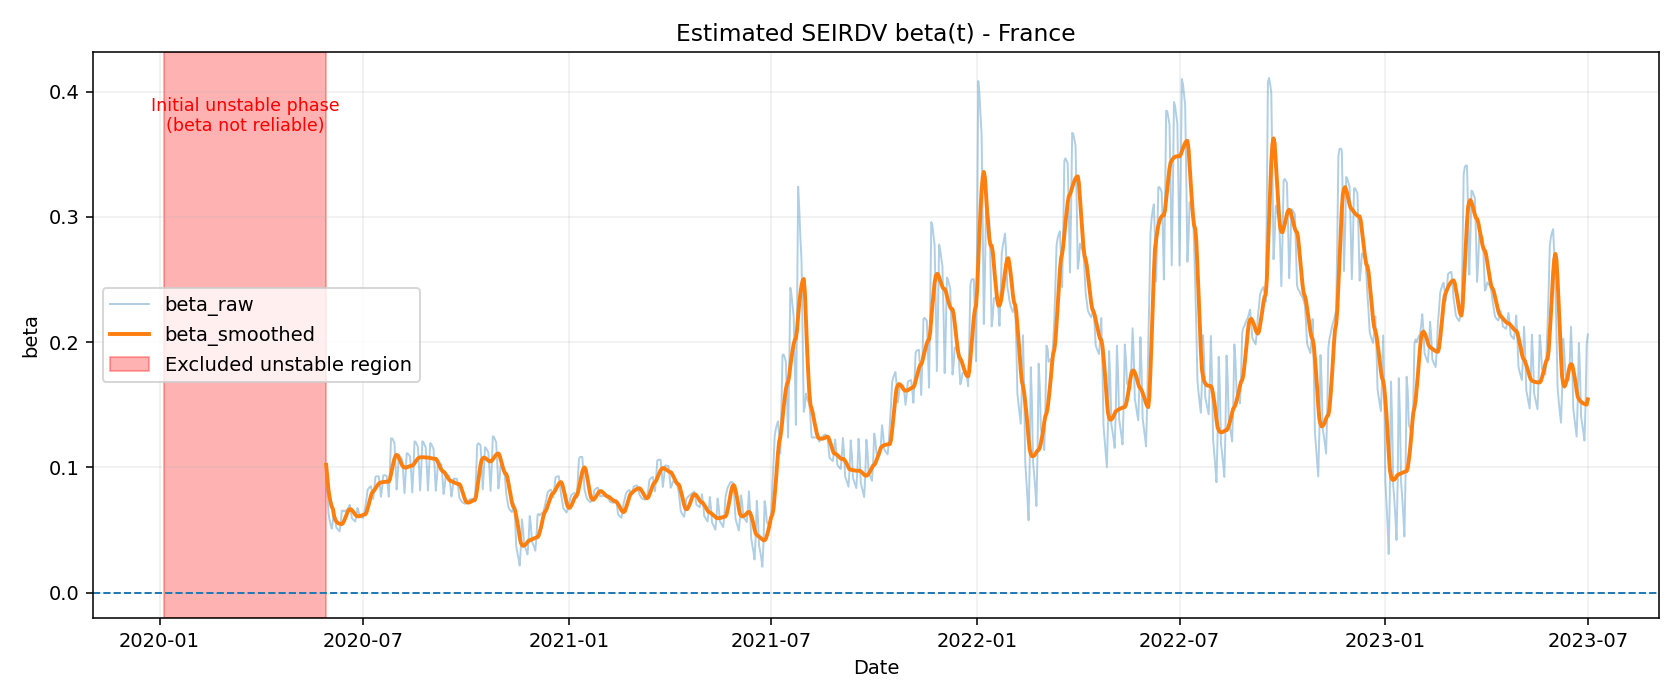
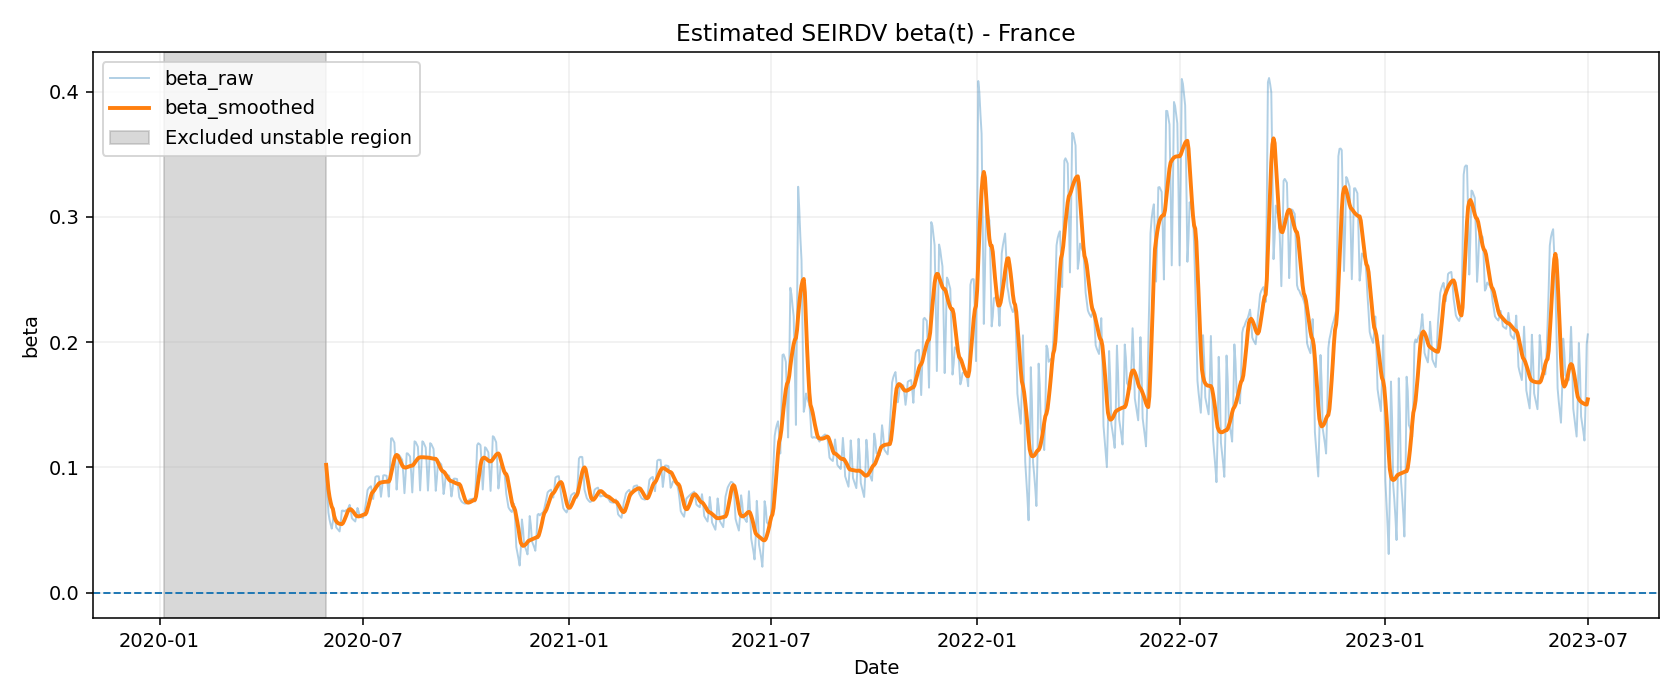
Update SEIRDV beta/mu excluded-region styling

Changed region(s): [[0.0619, 0.06, 0.2476, 0.9]]

diff --git a/src/visualization/plot_seirdv_parameters.py b/src/visualization/plot_seirdv_parameters.py
@@ -177,20 +177,8 @@ def plot_seirdv_beta(df: pd.DataFrame, output_path: Path, country: str) -> Path:
                 df.index.min(),
                 valid_start,
                 alpha=0.3,
-                color="red",
+                color="gray",
                 label="Excluded unstable region",
-            )
-            y_min, y_max = axis.get_ylim()
-            y_text = y_max - 0.08 * (y_max - y_min)
-            midpoint = df.index.min() + (valid_start - df.index.min()) / 2
-            axis.text(
-                midpoint,
-                y_text,
-                "Initial unstable phase\n(beta not reliable)",
-                color="red",
-                ha="center",
-                va="top",
-                fontsize=9,
             )
     axis.axhline(0.0, linestyle="--", linewidth=1.0)
     axis.set_title(f"Estimated SEIRDV beta(t) - {country}")
@@ -215,7 +203,7 @@ def plot_seirdv_mu(df: pd.DataFrame, output_path: Path, country: str) -> Path:
                 df.index.min(),
                 valid_start,
                 alpha=0.3,
-                color="red",
+                color="gray",
                 label="Excluded unstable region",
             )
 
